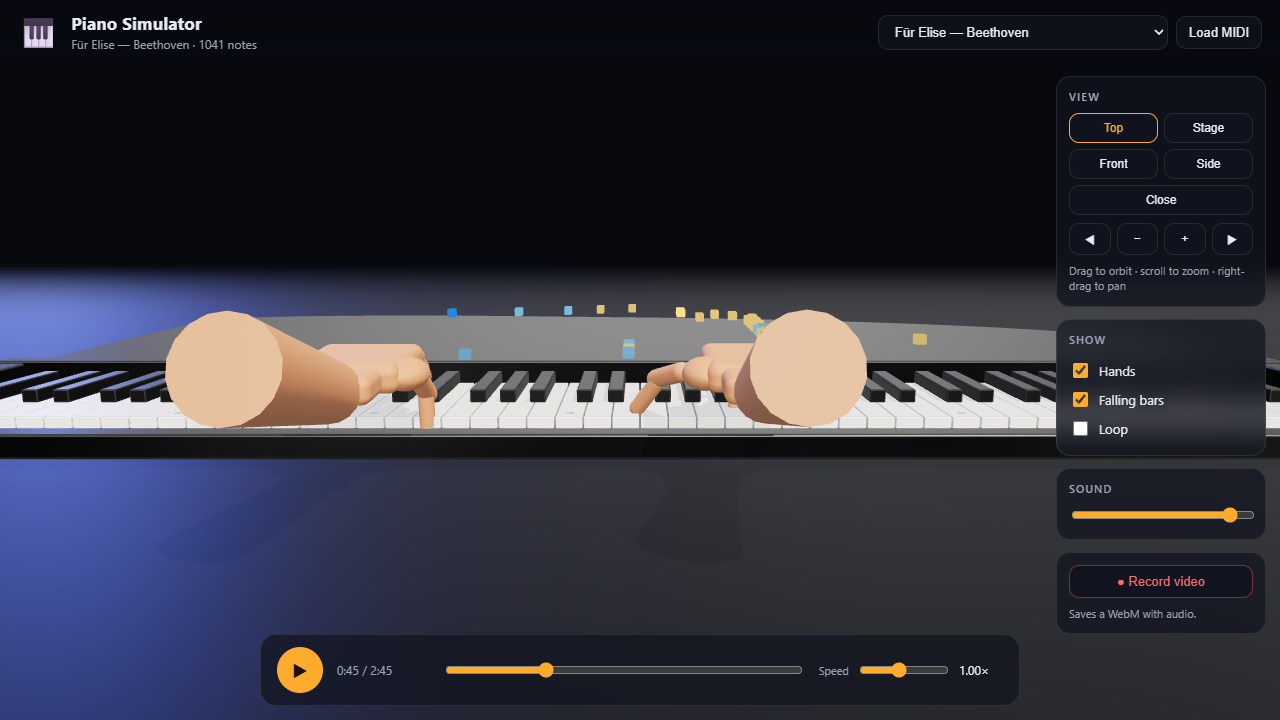
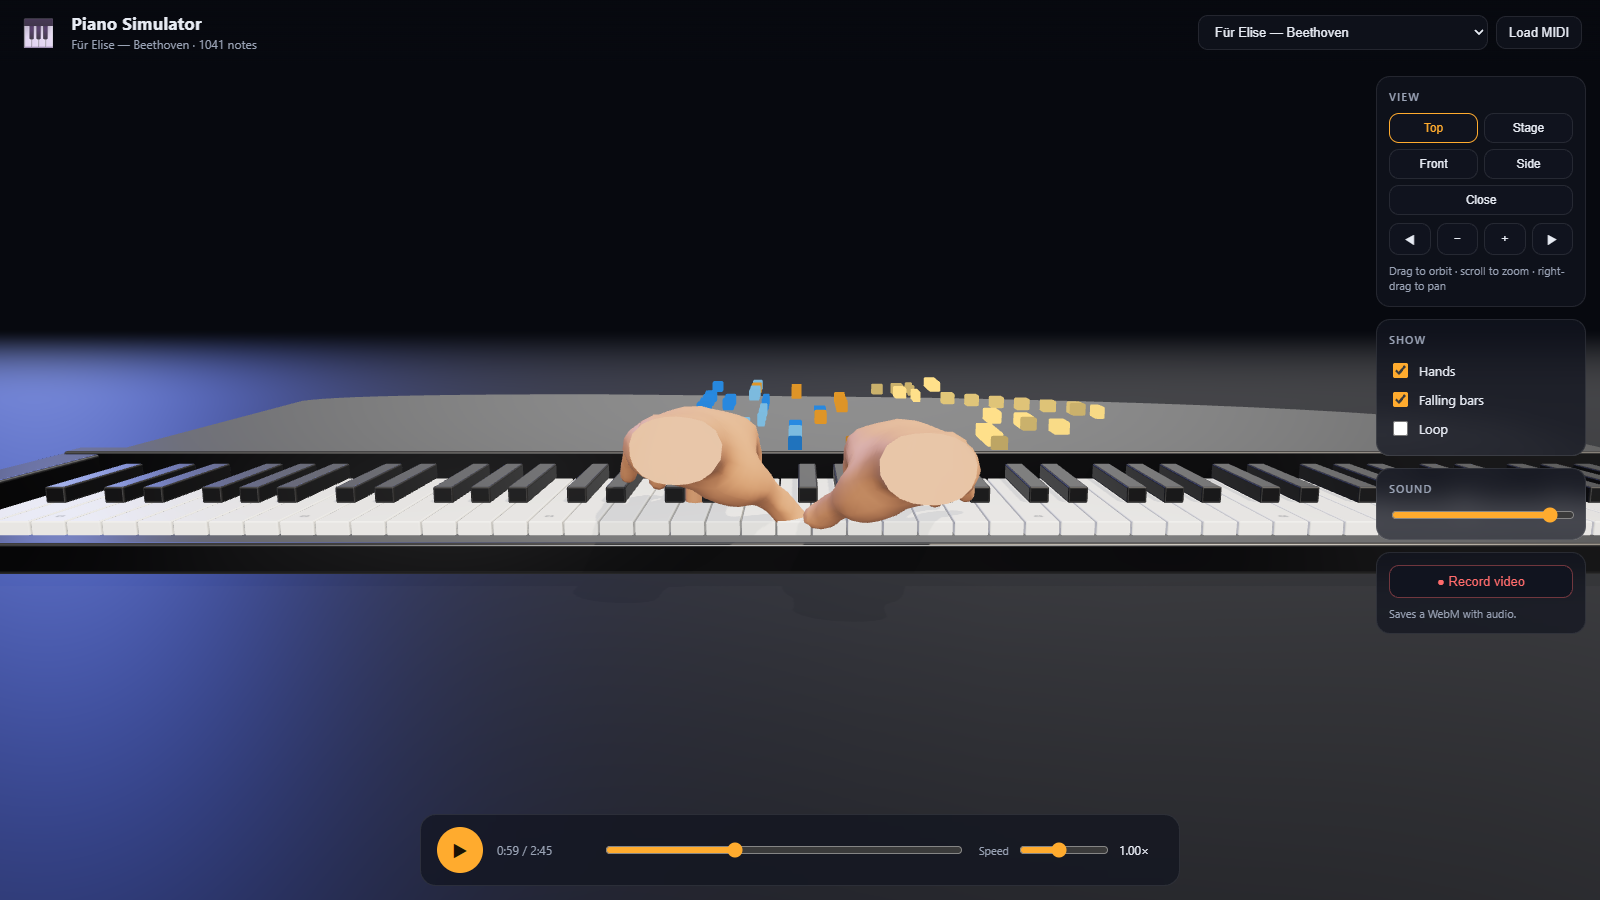
Show the corrected hands in the README
Refresh every camera preset at one moment of the first piece, where both
hands play a three-note chord. Add two hand-detail views with the
interface hidden, so the finger order and the key contact read clearly.

The hand section now describes the placement solve: the wrist-relative
finger order, the per-key strike depth, the curl trim, the resting
fingers that straighten, and the palm turn for the thumb.

Correct three stale figures. The worst contact gap drops from 56 mm to
28 mm. The gzipped build grows from 279 kB to 299 kB. Add the resting
thumb dip and the rig hand span to the limitations.

diff --git a/README.md b/README.md
@@ -17,7 +17,13 @@ Bar width encodes note weight. Loud melody notes draw wide bars. Soft accompanim
 ### Two rigged hands
 Each hand is a skinned mesh with 25 joints, the WebXR hand skeleton. The mesh comes from the `generic-hand` profile of the WebXR Input Profiles, which is the asset Three.js uses for hand tracking. A rig module poses the bones, and a contact solve places the wrist so the playing fingertips meet their keys.
 
-The hand does not slide its fingers sideways. It rotates each metacarpal to spread the knuckles, and it lifts the wrist when a chord lies beyond the hand's reach. Between notes the fingers hover above the keys. On a strike they curl to the key surface.
+![Both hands on the keys](docs/screenshots/hands.png)
+
+The solve keeps the five fingers in their natural order. It measures each finger from the wrist, not from the world, so a wide chord cannot cross one finger over another. The playing fingers hold their keys, and the resting fingers spread between them. A relaxation pass then separates the finger shafts. It stops before it moves a playing finger off its key.
+
+Each key has its own strike depth. A black key ends about 17 mm before the white strike line, so the solve aims a black-key finger at the black key. Each chord also gets a depth range, because the thumb reaches about 80 mm less far forward than the fingers.
+
+The solve trims the curl of each finger until its tip meets its own key. It rotates each metacarpal to spread the knuckles, and it lifts the wrist when a chord lies beyond the reach of the hand. Between notes the resting fingers straighten and hover above the keys. On a strike they curl to the key surface. When the thumb still misses, the solve turns the palm about its forward axis, which dips the thumb side.
 
 A fingering engine assigns the fingers. It groups notes into chords, splits them between the hands, and searches for a comfortable assignment. A beam search limits the hand span and prefers small shifts. The layout, fingering, and rig modules import no Three.js, so you can test them in Node.
 
@@ -37,12 +43,17 @@ The recorder captures the canvas and the audio to a WebM file. It uses the brows
 
 ## Screenshots
 
+All images show the first piece at about 59 seconds. Both hands play a three-note chord at that moment.
+
 | View | Image |
 |---|---|
 | Top (default) | ![Top view](docs/screenshots/top.png) |
 | Perform | ![Perform view](docs/screenshots/perform.png) |
 | Front | ![Front view](docs/screenshots/front.png) |
+| Side | ![Side view](docs/screenshots/side.png) |
 | Close (hands) | ![Close view](docs/screenshots/close.png) |
+| Hands on the keys | ![Both hands on the keys](docs/screenshots/hands.png) |
+| Hands from a low angle | ![Hands from a low angle](docs/screenshots/hands-side.png) |
 
 ## Stack
 
@@ -53,7 +64,7 @@ The recorder captures the canvas and the audio to a WebM file. It uses the brows
 | [@tonejs/midi](https://github.com/Tonejs/Midi) | 2.0.28 | MIDI parsing |
 | [Vite](https://vite.dev/) | 7 | Dev server and static build |
 
-The renderer uses ACES filmic tone mapping and soft shadows. The hand material uses `MeshPhysicalMaterial` with sheen to approximate skin. The build output is about 279 kB gzipped.
+The renderer uses ACES filmic tone mapping and soft shadows. The hand material uses `MeshPhysicalMaterial` with sheen to approximate skin. The build output is about 299 kB gzipped.
 
 ## Quick start
 
@@ -101,6 +112,7 @@ The code separates pure logic from rendering. You can test the logic in Node wit
 | `src/piano.js` | The keyboard, the keys, and the press animation. |
 | `src/bars.js` | The depth-travelling note bars. |
 | `src/hands.js` | The hand models and the motion controller. |
+| `src/handprocedural.js` | The primitive fallback hands, built from capsules and boxes. |
 | `src/handrig.js` | Rig math: bind-pose calibration, finger pose, and key contact. No Three.js import. |
 | `src/player.js` | MIDI parsing, the Tone.js sampler, and the transport. |
 | `src/recorder.js` | Canvas and audio capture to WebM. |
@@ -131,6 +143,8 @@ npm run fixtures
 ## Limitations
 
 - A few orchestral-reduction MIDIs contain chords wider than two hands can span. The engine stretches the hands to reach them. These chords look extended.
-- The rig cannot reach every chord with one curl set. A few wide chords land up to 56 mm from their keys, and the contact solve reports that gap rather than bending the hand further.
+- The rig cannot reach every chord with one curl set. A few wide chords land up to 28 mm from their keys, and the contact solve reports that gap rather than bending the hand further.
+- The rig hand spans about 158 mm, against about 193 mm for an adult hand. Eleven right-hand notes on tenth stretches therefore miss their keys by more than 10 mm.
+- The resting thumb dips up to 7 mm below the key top on some pinky-only chords. The wrist cannot rise further without lifting the playing pinky off its key.
 - Skin is a single material with no texture maps. The mesh carries no nails, pores, or creases.
 - Recording uses the browser MediaRecorder API. Output is WebM. Some browsers may record video only if the audio tap is unavailable.
